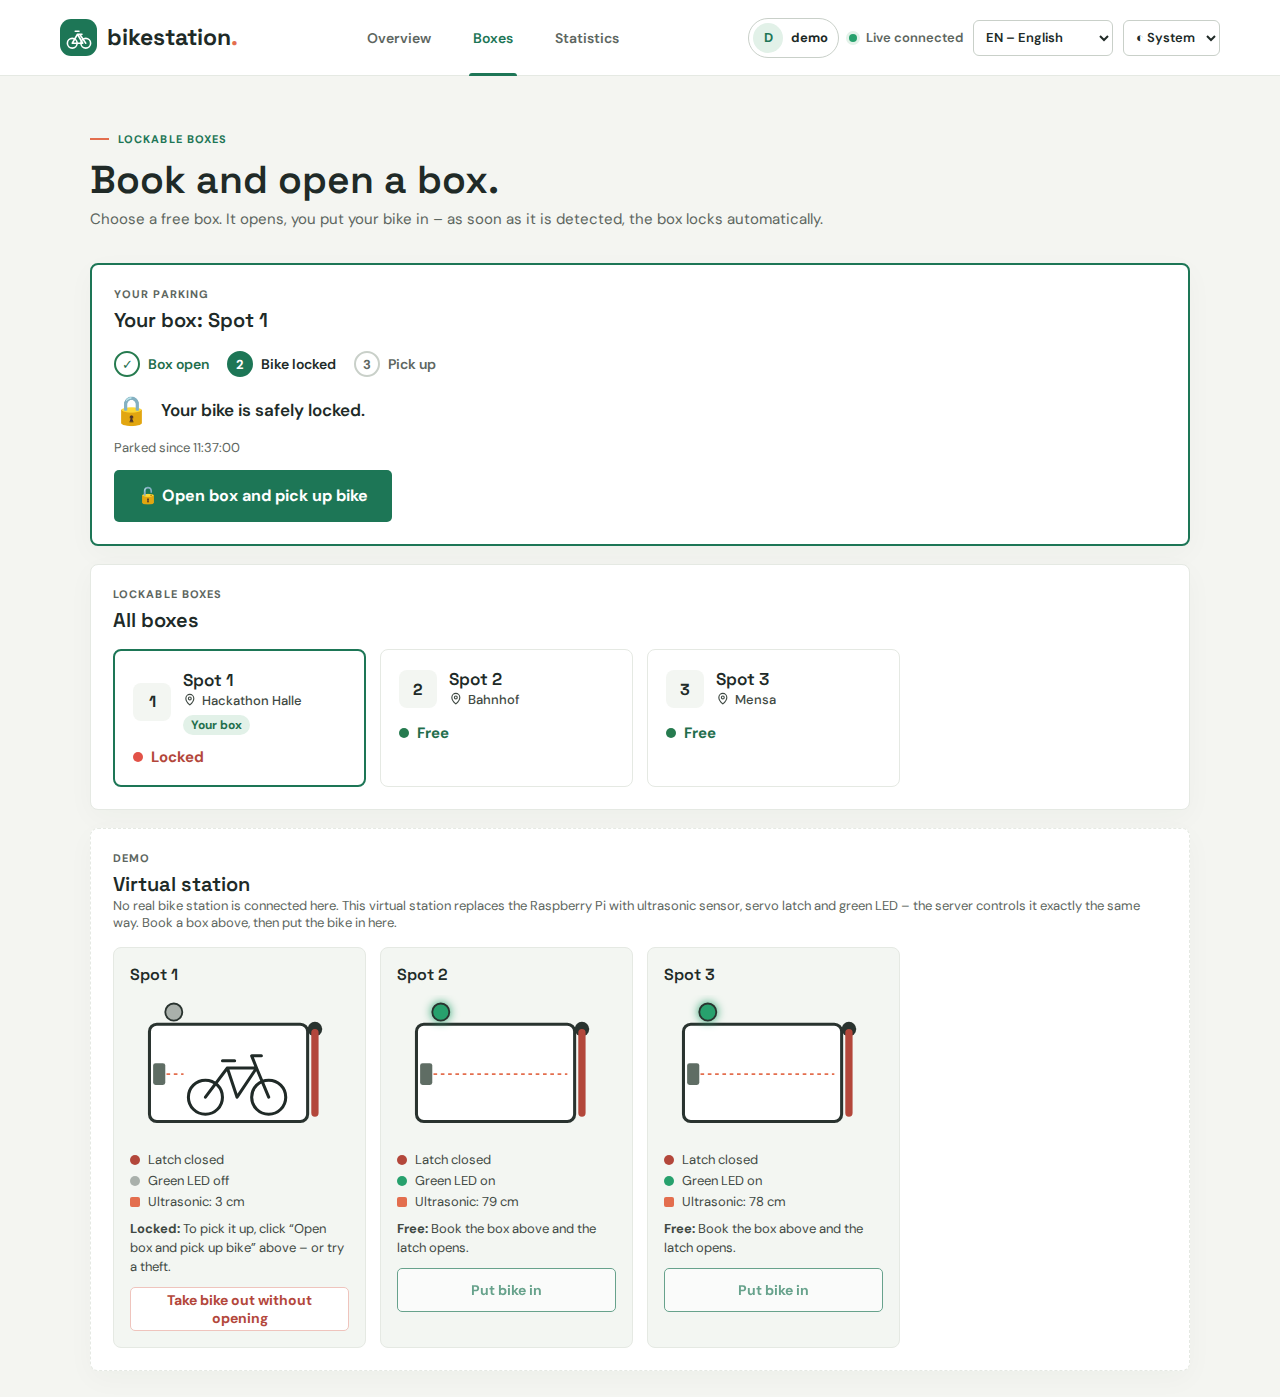
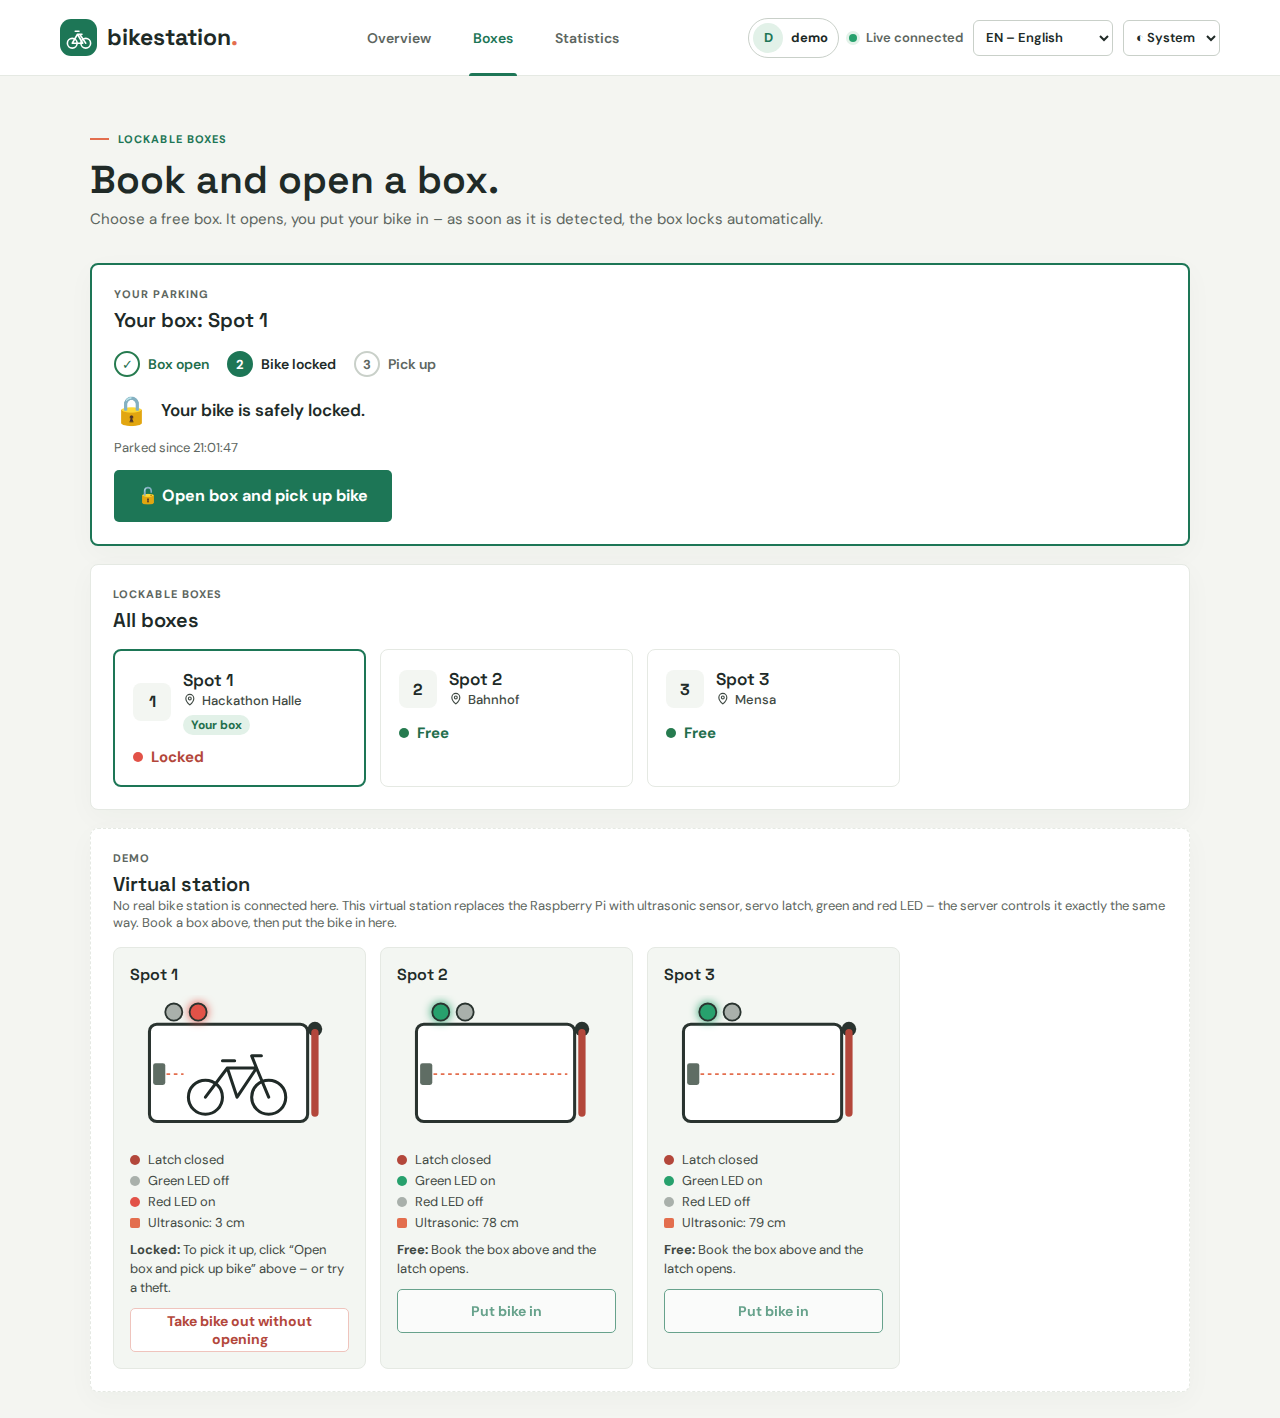
Demo: rote LED in der virtuellen Station
Wie an der echten Station: rot an, solange ein Fahrrad eingeschlossen ist, blinkt
nach unerlaubter Entnahme. Die virtuelle Station liefert dafür ledRed (Off/On/Blinking),
das Dashboard zeichnet die zweite LED, Texte in de/en/nl. Tests, README und
Screenshots angepasst.

Claude-Session: https://claude.ai/code/session_015pj7ZMwgtaigMHPDowhPn8

diff --git a/Frontend/api/src/i18n.tsx b/Frontend/api/src/i18n.tsx
@@ -196,13 +196,16 @@ const de = {
 
   'demo.kicker': 'DEMO',
   'demo.heading': 'Virtuelle Station',
-  'demo.intro': 'Hier ist keine echte Bikestation angeschlossen. Diese virtuelle Station ersetzt den Raspberry Pi mit Ultraschallsensor, Servo-Riegel und grüner LED – der Server steuert sie genauso. Buche oben eine Box und stell dann hier das Fahrrad hinein.',
+  'demo.intro': 'Hier ist keine echte Bikestation angeschlossen. Diese virtuelle Station ersetzt den Raspberry Pi mit Ultraschallsensor, Servo-Riegel, grüner und roter LED – der Server steuert sie genauso. Buche oben eine Box und stell dann hier das Fahrrad hinein.',
   'demo.unavailable': 'Die virtuelle Station antwortet gerade nicht.',
-  'demo.drawingAria': 'Zeichnung von {slot}: Box mit Ultraschallsensor, Servo-Riegel und LED',
+  'demo.drawingAria': 'Zeichnung von {slot}: Box mit Ultraschallsensor, Servo-Riegel und zwei LEDs',
   'demo.latchOpen': 'Riegel offen',
   'demo.latchClosed': 'Riegel zu',
   'demo.ledOn': 'Grüne LED an',
   'demo.ledOff': 'Grüne LED aus',
+  'demo.red.Off': 'Rote LED aus',
+  'demo.red.On': 'Rote LED an',
+  'demo.red.Blinking': 'Rote LED blinkt',
   'demo.distance': 'Ultraschall: {cm} cm',
   'demo.putIn': 'Fahrrad hineinstellen',
   'demo.takeOut': 'Fahrrad herausnehmen',
@@ -525,13 +528,16 @@ const en: Translations = {
 
   'demo.kicker': 'DEMO',
   'demo.heading': 'Virtual station',
-  'demo.intro': 'No real bike station is connected here. This virtual station replaces the Raspberry Pi with ultrasonic sensor, servo latch and green LED – the server controls it exactly the same way. Book a box above, then put the bike in here.',
+  'demo.intro': 'No real bike station is connected here. This virtual station replaces the Raspberry Pi with ultrasonic sensor, servo latch, green and red LED – the server controls it exactly the same way. Book a box above, then put the bike in here.',
   'demo.unavailable': 'The virtual station is not responding right now.',
-  'demo.drawingAria': 'Drawing of {slot}: box with ultrasonic sensor, servo latch and LED',
+  'demo.drawingAria': 'Drawing of {slot}: box with ultrasonic sensor, servo latch and two LEDs',
   'demo.latchOpen': 'Latch open',
   'demo.latchClosed': 'Latch closed',
   'demo.ledOn': 'Green LED on',
   'demo.ledOff': 'Green LED off',
+  'demo.red.Off': 'Red LED off',
+  'demo.red.On': 'Red LED on',
+  'demo.red.Blinking': 'Red LED blinking',
   'demo.distance': 'Ultrasonic: {cm} cm',
   'demo.putIn': 'Put bike in',
   'demo.takeOut': 'Take bike out',
@@ -851,13 +857,16 @@ const nl: Translations = {
 
   'demo.kicker': 'DEMO',
   'demo.heading': 'Virtueel station',
-  'demo.intro': 'Hier is geen echt fietsstation aangesloten. Dit virtuele station vervangt de Raspberry Pi met ultrasone sensor, servo-grendel en groene led – de server bestuurt het precies zo. Boek hierboven een box en zet de fiets er dan hier in.',
+  'demo.intro': 'Hier is geen echt fietsstation aangesloten. Dit virtuele station vervangt de Raspberry Pi met ultrasone sensor, servo-grendel, groene en rode led – de server bestuurt het precies zo. Boek hierboven een box en zet de fiets er dan hier in.',
   'demo.unavailable': 'Het virtuele station reageert op dit moment niet.',
-  'demo.drawingAria': 'Tekening van {slot}: box met ultrasone sensor, servo-grendel en led',
+  'demo.drawingAria': 'Tekening van {slot}: box met ultrasone sensor, servo-grendel en twee leds',
   'demo.latchOpen': 'Grendel open',
   'demo.latchClosed': 'Grendel dicht',
   'demo.ledOn': 'Groene led aan',
   'demo.ledOff': 'Groene led uit',
+  'demo.red.Off': 'Rode led uit',
+  'demo.red.On': 'Rode led aan',
+  'demo.red.Blinking': 'Rode led knippert',
   'demo.distance': 'Ultrasoon: {cm} cm',
   'demo.putIn': 'Fiets erin zetten',
   'demo.takeOut': 'Fiets eruit halen',

diff --git a/Frontend/api/src/components/DemoStation.tsx b/Frontend/api/src/components/DemoStation.tsx
@@ -4,8 +4,8 @@ import { useI18n, type TranslationKey } from '../i18n'
 import { slotName } from '../slotStatus'
 import { useVirtualStation } from '../useDemo'
 
-// Demo-Modus: ersetzt die echte Station (Raspberry Pi mit Ultraschall, Servo-Riegel und grüner LED).
-// Der Server steuert Riegel und LED genauso wie beim Pi – hier sieht man es und stellt das Fahrrad hinein.
+// Demo-Modus: ersetzt die echte Station (Raspberry Pi mit Ultraschall, Servo-Riegel, grüner und roter LED).
+// Der Server steuert Riegel und LEDs genauso wie beim Pi – hier sieht man es und stellt das Fahrrad hinein.
 export default function DemoStation({ onChange }: { onChange: () => void }) {
   const { t } = useI18n()
   const { boxes, failed, refresh } = useVirtualStation()
@@ -78,6 +78,10 @@ function VirtualBoxCard({ box, busy, onSetBike }: { box: VirtualBox; busy: boole
           {box.ledGreen ? t('demo.ledOn') : t('demo.ledOff')}
         </li>
         <li>
+          <span className={`demo-dot led-red ${box.ledRed === 'Off' ? '' : 'is-on'} ${box.ledRed === 'Blinking' ? 'is-blinking' : ''}`} aria-hidden="true"></span>
+          {t(`demo.red.${box.ledRed}`)}
+        </li>
+        <li>
           <span className="demo-dot sensor" aria-hidden="true"></span>
           {t('demo.distance', { cm: box.distanceCm })}
         </li>
@@ -98,7 +102,7 @@ function VirtualBoxCard({ box, busy, onSetBike }: { box: VirtualBox; busy: boole
   )
 }
 
-// Seitenansicht der Box: Ultraschallsensor links, Servo-Riegel an der Öffnung rechts, LED oben
+// Seitenansicht der Box: Ultraschallsensor links, Servo-Riegel an der Öffnung rechts, LEDs oben
 function BoxDrawing({ box, label }: { box: VirtualBox; label: string }) {
   return (
     <svg className="demo-drawing" viewBox="0 0 180 120" role="img" aria-label={label}>
@@ -112,8 +116,14 @@ function BoxDrawing({ box, label }: { box: VirtualBox; label: string }) {
         <circle cx="114" cy="84" r="14" />
         <path d="M62 84 L80 60 L104 60 L114 84 M80 60 L88 84 L104 60 M76 54 L86 54 M104 60 L100 50 L108 50" />
       </g>
-      {/* LED */}
+      {/* LEDs: grün = frei, rot = Fahrrad eingeschlossen (blinkt bei Alarm) */}
       <circle className={`demo-led ${box.ledGreen ? 'is-on' : ''}`} cx="36" cy="14" r="7" />
+      <circle
+        className={`demo-led red ${box.ledRed === 'Off' ? '' : 'is-on'} ${box.ledRed === 'Blinking' ? 'is-blinking' : ''}`}
+        cx="56"
+        cy="14"
+        r="7"
+      />
       {/* Servo-Riegel: dreht sich am Drehpunkt oben rechts nach oben, wenn er öffnet */}
       <circle className="demo-servo" cx="152" cy="28" r="6" />
       <rect className={`demo-latch ${box.lockOpen ? 'is-open' : ''}`} x="149" y="28" width="6" height="72" rx="3" />

diff --git a/Frontend/api/src/style.css b/Frontend/api/src/style.css
@@ -880,6 +880,13 @@ a.primary-button, a.secondary-button { text-decoration: none; }
 
 .demo-led.is-on { fill: var(--live-dot); filter: drop-shadow(0 0 4px var(--live-dot)); }
 
+.demo-led.red.is-on { fill: var(--red-light); filter: drop-shadow(0 0 4px var(--red-light)); }
+
+/* Alarm: rote LED blinkt wie an der echten Station */
+.demo-led.is-blinking, .demo-dot.is-blinking { animation: demo-blink 1s steps(1, end) infinite; }
+
+@keyframes demo-blink { 50% { opacity: .15; } }
+
 .demo-servo { fill: var(--frame); }
 
 /* Der Riegel dreht sich am Servo nach oben weg, wenn er öffnet */
@@ -898,6 +905,10 @@ a.primary-button, a.secondary-button { text-decoration: none; }
 .demo-dot.led { background: var(--grey-light); }
 
 .demo-dot.led.is-on { background: var(--live-dot); }
+
+.demo-dot.led-red { background: var(--grey-light); }
+
+.demo-dot.led-red.is-on { background: var(--red-light); }
 
 .demo-dot.sensor { border-radius: 2px; background: var(--accent); }
 
@@ -919,4 +930,5 @@ a.primary-button, a.secondary-button { text-decoration: none; }
 
 @media (prefers-reduced-motion: reduce) {
   .demo-latch, .demo-bike, .demo-beam { transition: none; }
+  .demo-led.is-blinking, .demo-dot.is-blinking { animation: none; }
 }

diff --git a/Frontend/api/src/api.ts b/Frontend/api/src/api.ts
@@ -181,13 +181,14 @@ export type DemoInfo = {
   accounts: { username: string; password: string; role: UserRole }[]
 }
 
-// Eine Box der virtuellen Station – so, wie der Raspberry Pi sie mit Ultraschall, Servo und LED hätte
+// Eine Box der virtuellen Station – so, wie der Raspberry Pi sie mit Ultraschall, Servo und LEDs hätte
 export type VirtualBox = {
   slotId: number
   bikePresent: boolean
   distanceCm: number
   lockOpen: boolean
   ledGreen: boolean
+  ledRed: 'Off' | 'On' | 'Blinking'
   boxState: BoxState
 }
 

diff --git a/api/bikestation/bikestation/Services/VirtualStation.cs b/api/bikestation/bikestation/Services/VirtualStation.cs
@@ -6,7 +6,7 @@ using Microsoft.EntityFrameworkCore;
 
 namespace bikestation.Services
 {
-    // Ersetzt im Demo-Modus die echte Station (Raspberry Pi mit Ultraschallsensor, Servo-Riegel und LED).
+    // Ersetzt im Demo-Modus die echte Station (Raspberry Pi mit Ultraschallsensor, Servo-Riegel und zwei LEDs).
     // Meldet jede Sekunde für jede Box einen Abstand – wie pi/parking_sensor.py und über denselben
     // SensorDataService – und merkt sich die Antwort des Servers (Riegel auf/zu, Box-Zustand).
     // Ob ein Fahrrad in der Box steht, stellt man im Dashboard ein (POST /api/demo/station/{id}/bike).
@@ -74,9 +74,16 @@ namespace bikestation.Services
                 });
                 if (response is null) continue;
 
-                // LED wie im Pi-Programm: grün aus, solange ein Fahrrad eingeschlossen oder die Box gesperrt ist
+                // LEDs wie an der Station: grün aus, solange ein Fahrrad eingeschlossen oder die Box gesperrt ist;
+                // rot an bei eingeschlossenem Fahrrad, blinkend nach unerlaubter Entnahme
                 var ledGreen = response.BoxState is not (BoxState.Locked or BoxState.Blocked);
-                _boxes[slotId] = new VirtualBoxDto(slotId, bike, distance, response.LockOpen, ledGreen, response.BoxState);
+                var ledRed = response.BoxState switch
+                {
+                    BoxState.Locked => RedLed.On,
+                    BoxState.Blocked => RedLed.Blinking,
+                    _ => RedLed.Off
+                };
+                _boxes[slotId] = new VirtualBoxDto(slotId, bike, distance, response.LockOpen, ledGreen, ledRed, response.BoxState);
             }
         }
     }

diff --git a/api/bikestation/bikestation.Tests/DemoTests.cs b/api/bikestation/bikestation.Tests/DemoTests.cs
@@ -90,6 +90,7 @@ namespace bikestation.Tests
             var free = await VirtualBox(1);
             Assert.Equal("Free", free.GetProperty("boxState").GetString());
             Assert.True(free.GetProperty("ledGreen").GetBoolean());
+            Assert.Equal("Off", free.GetProperty("ledRed").GetString());
             Assert.False(free.GetProperty("lockOpen").GetBoolean());
 
             // Buchen: Riegel öffnet
@@ -105,6 +106,7 @@ namespace bikestation.Tests
             Assert.Equal("Locked", locked.GetProperty("boxState").GetString());
             Assert.False(locked.GetProperty("lockOpen").GetBoolean());
             Assert.False(locked.GetProperty("ledGreen").GetBoolean());
+            Assert.Equal("On", locked.GetProperty("ledRed").GetString());
             Assert.True(locked.GetProperty("distanceCm").GetInt32() <= 7);
 
             // Fahrrad ohne Öffnen herausnehmen: Box gesperrt, Alarm für den Besitzer
@@ -112,6 +114,7 @@ namespace bikestation.Tests
             await Station.TickAsync();
             var blocked = await VirtualBox(1);
             Assert.Equal("Blocked", blocked.GetProperty("boxState").GetString());
+            Assert.Equal("Blinking", blocked.GetProperty("ledRed").GetString());
             var me = await user.GetFromJsonAsync<JsonElement>("/api/me");
             Assert.Contains(me.GetProperty("alerts").EnumerateArray(), a => a.GetProperty("type").GetString() == "BikeRemoved");
         }

diff --git a/api/bikestation/bikestation/Dtos/DemoDtos.cs b/api/bikestation/bikestation/Dtos/DemoDtos.cs
@@ -7,8 +7,16 @@ namespace bikestation.Dtos
 
     public record DemoAccountDto(string Username, string Password, UserRole Role);
 
-    // Zustand einer Box der virtuellen Station – so, wie ihn der Pi mit Ultraschall, Servo und LED hätte
-    public record VirtualBoxDto(int SlotId, bool BikePresent, int DistanceCm, bool LockOpen, bool LedGreen, BoxState BoxState);
+    // Zustand einer Box der virtuellen Station – so, wie ihn der Pi mit Ultraschall, Servo und LEDs hätte
+    public record VirtualBoxDto(int SlotId, bool BikePresent, int DistanceCm, bool LockOpen, bool LedGreen, RedLed LedRed, BoxState BoxState);
+
+    // Rote LED der Station: an, solange ein Fahrrad eingeschlossen ist, blinkt nach unerlaubter Entnahme
+    public enum RedLed
+    {
+        Off,
+        On,
+        Blinking
+    }
 
     public class VirtualBikeRequest
     {

diff --git a/README.md b/README.md
@@ -27,7 +27,7 @@ the phone, the red LED at the box starts blinking and the box stays blocked unti
 
 No hardware needed – a **virtual station** replaces the Raspberry Pi. The server controls it exactly like the
 real one: it reports the ultrasonic distance every second, and the server's answer moves the latch and switches
-the green LED. You put the bike in or take it out with a button.
+the green and red LED. You put the bike in or take it out with a button.
 
 **With Docker** (nothing else to install):
 
@@ -58,10 +58,10 @@ statistics and forecast have something to show:
 
 1. **Account** → *Sign in as demo*. You land on **Boxes**.
 2. *Open box* on Spot 1 – in the virtual station below, the latch swings open.
-3. *Put bike in* – the sensor reads 3 cm, after 5 seconds the box locks and the green LED goes off.
+3. *Put bike in* – the sensor reads 3 cm, after 5 seconds the box locks, the green LED goes off and the red one lights up.
 4. *Open box and pick up bike* → *Take bike out* – after 5 seconds the box is free again.
 5. Try a theft: park again, then *Take bike out without opening*. The alarm banner appears (with sound),
-   the box is blocked.
+   the red LED blinks and the box is blocked.
 6. Sign in as **admin** → **Admin**: who is at which box, alerts, release the blocked box, box log,
    add or delete stations.
 7. **Statistics**: occupancy by hour and day, forecast for the next hours.
